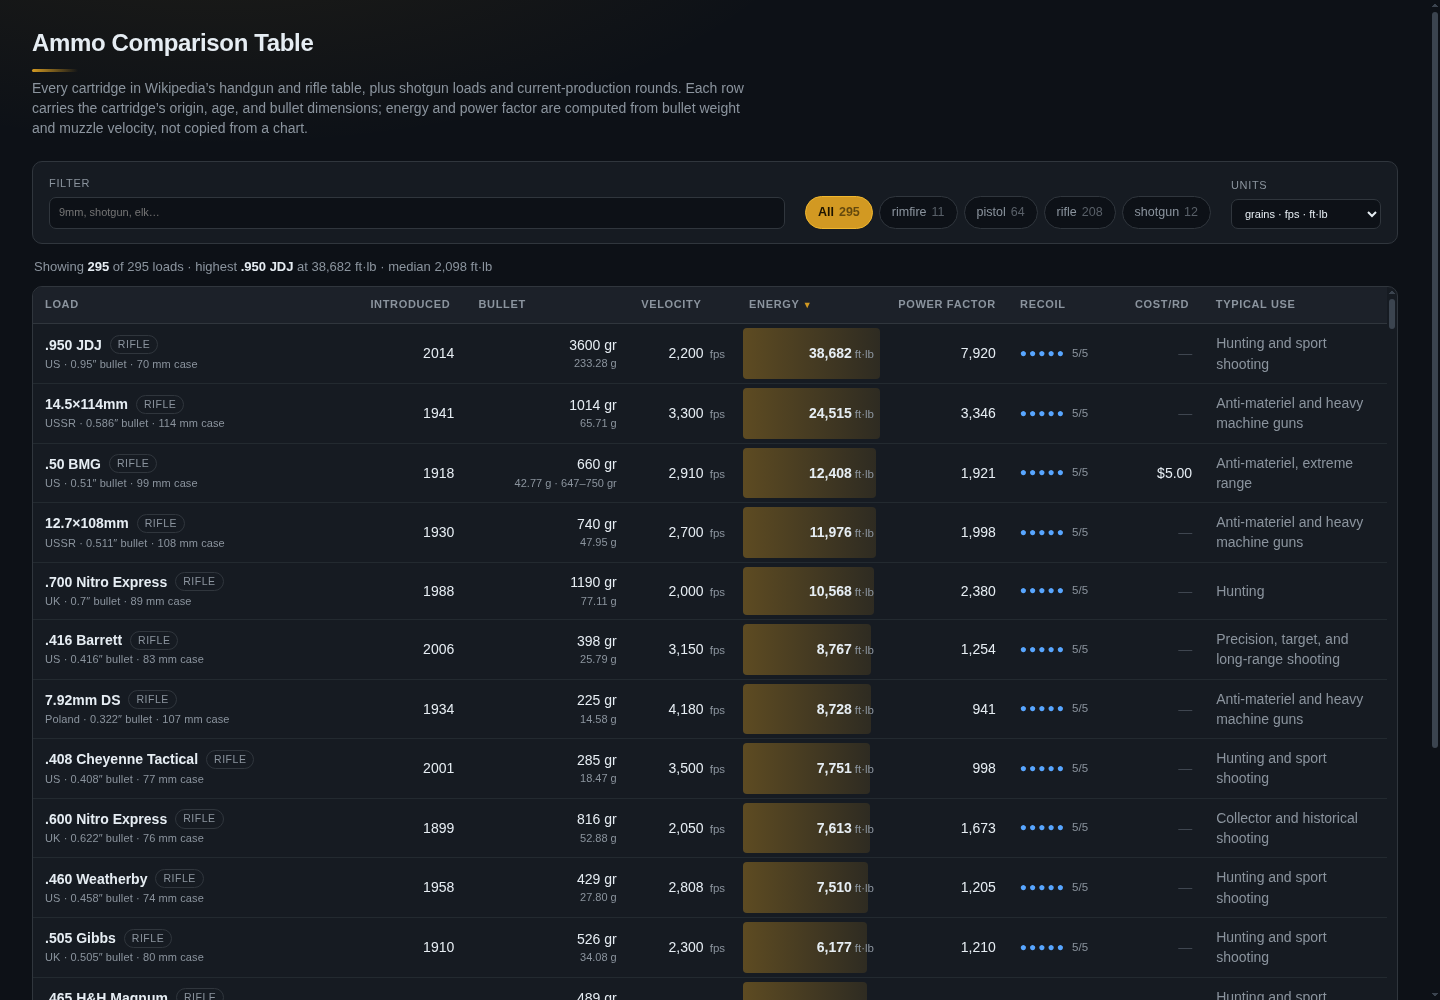
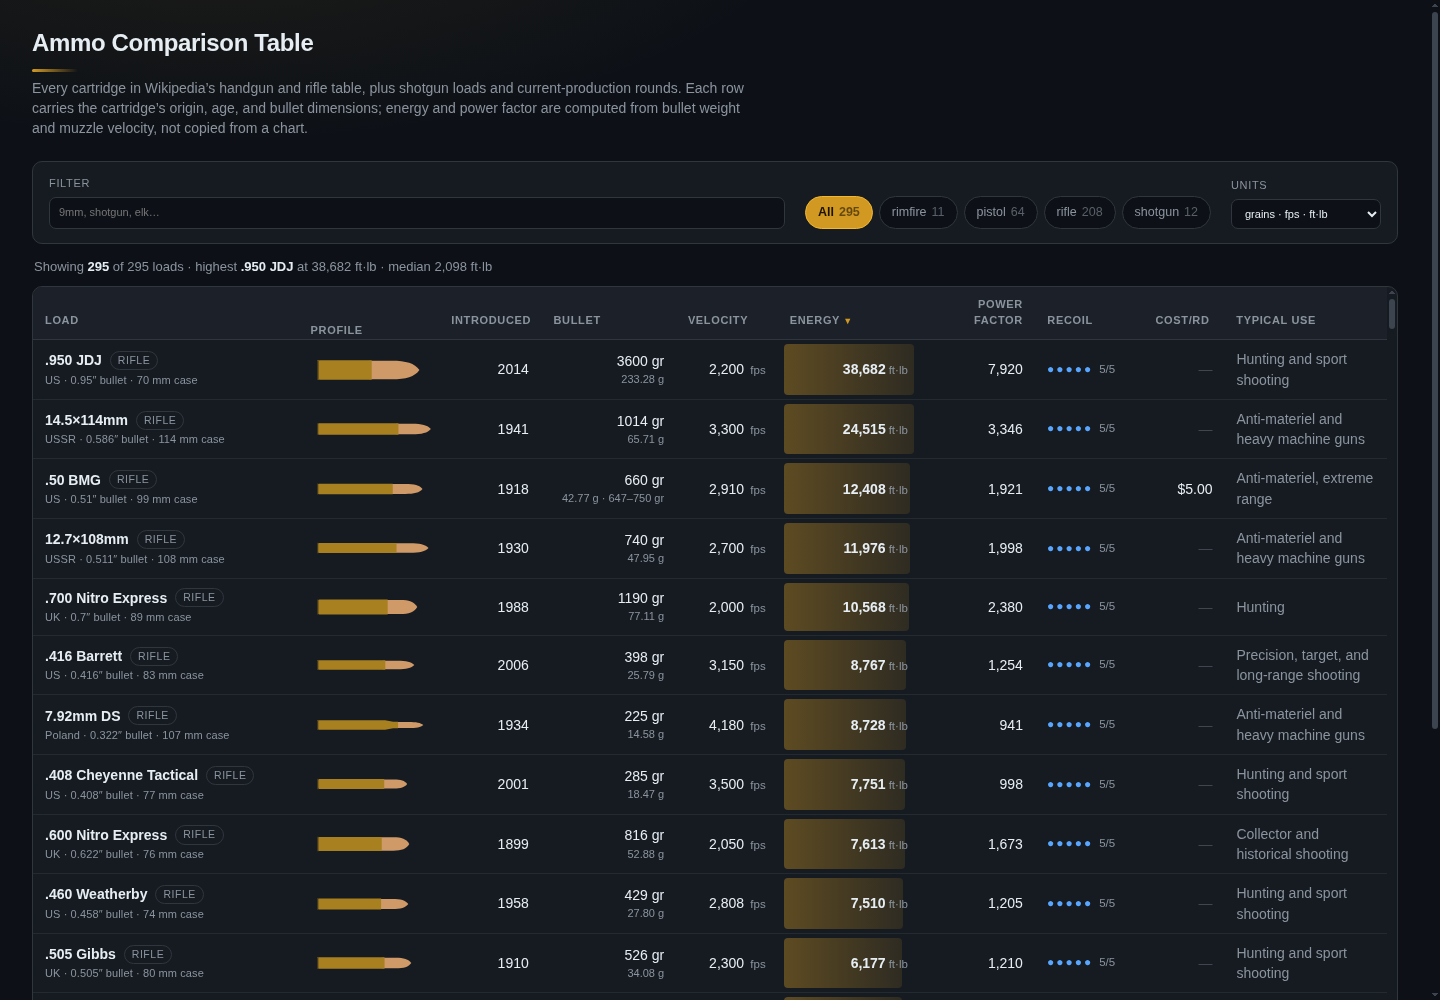
Add generated cartridge silhouettes to ammo comparison rows

diff --git a/active/web-apps/ammo-compare/lib/cartridge-svg.js b/active/web-apps/ammo-compare/lib/cartridge-svg.js
@@ -7,12 +7,17 @@
  * the numbers in the row, and means a corrected dimension fixes its silhouette.
  *
  * These are schematics, not engineering drawings. Case base diameter and bullet
- * ogive are approximated (the source table does not publish base diameter), but
- * every silhouette shares one scale, so relative lengths and widths are honest.
+ * ogive are approximated (the source table does not publish base diameter).
+ * Sizes use a compressed scale (length^0.55) so a 2 mm Kolibri stays visible next
+ * to a 14.5×114mm; aspect ratios are preserved, absolute size is not.
  */
 import { GRAINS_TO_GRAMS } from './ballistics.js';
 
 const LEAD_DENSITY_G_MM3 = 0.01134;
+/** Width of the shared coordinate space; every silhouette lives in this box. */
+const VIEW_WIDTH = 160;
+/** < 1 compresses the size range; 0 would make every drawing the same length. */
+const SCALE_EXPONENT = 0.55;
 
 /** Fallbacks for rows whose name and metadata do not pin a dimension down. */
 const CATEGORY_DEFAULTS = {
@@ -64,7 +69,11 @@ function isRimmed(load) {
   return /(rimmed|\bR\b|R$|Rimfire)/i.test(load.name) || load.category === 'rimfire';
 }
 
-function geometry(load) {
+/**
+ * Approximate profile geometry in millimetres. Exported so tests can assert the
+ * drawing tracks the data without parsing path strings.
+ */
+export function cartridgeGeometry(load) {
   const category = load.category in CATEGORY_DEFAULTS ? load.category : 'rifle';
   const bulletMm = bulletDiameterMm(load);
   const caseMm = caseLengthMm(load);
@@ -118,16 +127,22 @@ function geometry(load) {
   };
 }
 
-/** Shared bounds so every silhouette is drawn at the same scale. */
+/** Compressed but proportion-preserving scale for one cartridge. */
+function scaleFor(totalLength, maxLength) {
+  if (!(maxLength > 0) || !(totalLength > 0)) return 1;
+  const drawn = VIEW_WIDTH * (totalLength / maxLength) ** SCALE_EXPONENT;
+  return drawn / totalLength;
+}
+
+/** Shared bounds so every silhouette is drawn in the same coordinate box. */
 export function cartridgeExtents(loads) {
-  let length = 0;
+  const geometries = loads.map(cartridgeGeometry);
+  const maxLength = Math.max(...geometries.map((g) => g.totalLength));
   let radius = 0;
-  for (const load of loads) {
-    const g = geometry(load);
-    length = Math.max(length, g.totalLength);
-    radius = Math.max(radius, g.maxRadius);
+  for (const g of geometries) {
+    radius = Math.max(radius, g.maxRadius * scaleFor(g.totalLength, maxLength));
   }
-  return { length, radius };
+  return { length: VIEW_WIDTH, maxLength, radius };
 }
 
 const num = (n) => (Number.isFinite(n) ? Number(n.toFixed(2)) : 0);
@@ -135,31 +150,27 @@ const num = (n) => (Number.isFinite(n) ? Number(n.toFixed(2)) : 0);
 function casePath(g) {
   const {
     rimThickness, groove, bodyRadius, grooveRadius, neckRadius,
-    shoulderX, shoulderLength, neckLength, caseMm,
+    shoulderX, shoulderLength, caseMm,
   } = g;
-  const x0 = 0;
   const x1 = rimThickness;
   const x2 = rimThickness + groove;
   const x3 = shoulderX;
   const x4 = shoulderX + shoulderLength;
-  const x5 = caseMm;
   return [
-    `M${num(x0)},${num(-g.rimMm / 2)}`,
-    `L${num(x1)},${num(-g.rimMm / 2)}`,
+    `M${num(x1)},${num(-g.rimMm / 2)}`,
     `L${num(x1)},${num(-grooveRadius)}`,
     `L${num(x2)},${num(-grooveRadius)}`,
     `L${num(x2)},${num(-bodyRadius)}`,
     `L${num(x3)},${num(-bodyRadius)}`,
     `L${num(x4)},${num(-neckRadius)}`,
-    `L${num(x5)},${num(-neckRadius)}`,
-    `L${num(x5)},${num(neckRadius)}`,
+    `L${num(caseMm)},${num(-neckRadius)}`,
+    `L${num(caseMm)},${num(neckRadius)}`,
     `L${num(x4)},${num(neckRadius)}`,
     `L${num(x3)},${num(bodyRadius)}`,
     `L${num(x2)},${num(bodyRadius)}`,
     `L${num(x2)},${num(grooveRadius)}`,
     `L${num(x1)},${num(grooveRadius)}`,
     `L${num(x1)},${num(g.rimMm / 2)}`,
-    `L${num(x0)},${num(g.rimMm / 2)}`,
     'Z',
   ].join(' ');
 }
@@ -168,14 +179,31 @@ function bulletPath(g) {
   const r = g.bulletMm / 2;
   const seat = Math.min(3, g.caseMm * 0.12);
   const x0 = g.caseMm - seat;
-  const tip = g.caseMm + g.exposed;
-  const shoulder = tip - g.exposed * 0.45;
-  const belly = g.caseMm + g.exposed * 0.35;
+  const mouth = g.caseMm;
+  const tip = mouth + g.exposed;
+  const e = g.exposed;
+  const roundNose = g.category === 'pistol' || g.category === 'rimfire';
+
+  if (roundNose) {
+    const cap = Math.min(r, e);
+    const shoulder = tip - cap;
+    return [
+      `M${num(x0)},${num(-r)}`,
+      `L${num(shoulder)},${num(-r)}`,
+      `A${num(r)},${num(r)} 0 0 1 ${num(tip)},0`,
+      `A${num(r)},${num(r)} 0 0 1 ${num(shoulder)},${num(r)}`,
+      `L${num(x0)},${num(r)}`,
+      'Z',
+    ].join(' ');
+  }
+
+  // Spitzer ogive: straight bearing surface, then a long curve to the tip.
+  const ogive = Math.max(mouth, tip - e * 0.58);
   return [
     `M${num(x0)},${num(-r)}`,
-    `L${num(g.caseMm)},${num(-r)}`,
-    `C${num(belly)},${num(-r)} ${num(shoulder)},${num(-r * 0.72)} ${num(tip)},0`,
-    `C${num(shoulder)},${num(r * 0.72)} ${num(belly)},${num(r)} ${num(g.caseMm)},${num(r)}`,
+    `L${num(ogive)},${num(-r)}`,
+    `C${num(ogive + e * 0.3)},${num(-r)} ${num(tip - e * 0.1)},${num(-r * 0.74)} ${num(tip)},0`,
+    `C${num(tip - e * 0.1)},${num(r * 0.74)} ${num(ogive + e * 0.3)},${num(r)} ${num(ogive)},${num(r)}`,
     `L${num(x0)},${num(r)}`,
     'Z',
   ].join(' ');
@@ -184,29 +212,40 @@ function bulletPath(g) {
 function hullMarkup(g) {
   const r = g.bulletMm / 2;
   const head = Math.min(8, g.caseMm * 0.18);
+  const crimp = Math.min(3, g.caseMm * 0.09);
+  const hull = [
+    `M0,${num(-r)}`,
+    `L${num(g.caseMm - crimp)},${num(-r)}`,
+    `Q${num(g.caseMm)},${num(-r * 0.9)} ${num(g.caseMm)},0`,
+    `Q${num(g.caseMm)},${num(r * 0.9)} ${num(g.caseMm - crimp)},${num(r)}`,
+    'L0,' + num(r),
+    'Z',
+  ].join(' ');
   return `
-    <rect class="cart-hull" x="0" y="${num(-r)}" width="${num(g.caseMm)}" height="${num(r * 2)}" rx="${num(Math.min(1.4, r * 0.5))}"/>
-    <rect class="cart-head" x="0" y="${num(-r)}" width="${num(head)}" height="${num(r * 2)}" rx="${num(Math.min(0.8, r * 0.3))}"/>`;
+    <path class="cart-hull" d="${hull}"/>
+    <rect class="cart-head" x="0" y="${num(-r - 0.4)}" width="${num(head)}" height="${num(r * 2 + 0.8)}" rx="0.3"/>`;
 }
 
 /**
  * One inline SVG. `extents` comes from `cartridgeExtents` over the whole
- * dataset, so the drawings are comparable across rows.
+ * dataset, so every drawing shares one coordinate box.
  */
 export function cartridgeSvg(load, extents) {
-  const g = geometry(load);
+  const g = cartridgeGeometry(load);
   const pad = 0.8;
-  const width = extents.length + pad * 2;
+  const width = extents.length + pad + 2.6;
   const height = extents.radius * 2 + pad * 2;
   const centerY = pad + extents.radius;
+  const scale = scaleFor(g.totalLength, extents.maxLength ?? extents.length);
 
   const body =
     g.category === 'shotgun'
       ? hullMarkup(g)
       : `
     <path class="cart-bullet" d="${bulletPath(g)}"/>
+    <rect class="cart-rim" x="0" y="${num(-g.rimMm / 2)}" width="${num(g.rimThickness)}" height="${num(g.rimMm)}" rx="0.25"/>
     <path class="cart-case" d="${casePath(g)}"/>`;
 
-  return `<svg class="cart" viewBox="0 0 ${num(width)} ${num(height)}" preserveAspectRatio="xMinYMid meet" aria-hidden="true" focusable="false"><g transform="translate(${num(pad)} ${num(centerY)})">${body}
+  return `<svg class="cart" viewBox="0 0 ${num(width)} ${num(height)}" preserveAspectRatio="xMinYMid meet" aria-hidden="true" focusable="false"><g transform="translate(${num(pad)} ${num(centerY)}) scale(${num(scale)})">${body}
     </g></svg>`;
 }

diff --git a/active/web-apps/ammo-compare/styles.css b/active/web-apps/ammo-compare/styles.css
@@ -163,15 +163,16 @@ thead th button {
 }
 thead th:hover button { color: var(--ink); }
 thead th.num button { text-align: right; }
-thead .col-load { width: 24%; }
-thead .col-introduced { width: 8%; }
-thead .col-bullet { width: 12%; }
-thead .col-velocity { width: 8%; }
-thead .col-energy { width: 11%; }
-thead .col-pf { width: 9%; }
-thead .col-recoil { width: 8.5%; }
+thead .col-load { width: 20.5%; }
+thead .col-svg { width: 9.5%; }
+thead .col-introduced { width: 7.5%; }
+thead .col-bullet { width: 10%; }
+thead .col-velocity { width: 7.5%; }
+thead .col-energy { width: 10.5%; }
+thead .col-pf { width: 8.5%; }
+thead .col-recoil { width: 8%; }
 thead .col-cost { width: 6%; }
-thead .col-use { width: 13.5%; }
+thead .col-use { width: 12%; }
 thead th[aria-sort="ascending"] button::after { content: " ▲"; color: var(--accent); font-size: 9px; }
 thead th[aria-sort="descending"] button::after { content: " ▼"; color: var(--accent); font-size: 9px; }
 
@@ -212,6 +213,15 @@ td .sub { display: block; color: var(--dim); font-size: 11px; font-weight: 400; 
   text-transform: uppercase;
   vertical-align: 1px;
 }
+
+/* cartridge silhouettes: one shared scale, derived from the row's dimensions */
+td.col-svg { padding: 4px 6px; }
+.cart { display: block; width: 100%; height: 24px; shape-rendering: geometricPrecision; }
+.cart-case { fill: #a8801f; }
+.cart-rim { fill: #7d5d19; }
+.cart-bullet { fill: #cf9a68; }
+.cart-hull { fill: #9d3f30; }
+.cart-head { fill: #a8801f; }
 
 /* energy cell: bar behind the number */
 .col-energy { min-width: 152px; }
@@ -290,7 +300,7 @@ tr.detail .badge { border: 1px solid var(--line); border-radius: 6px; padding: 2
 
   /* Phones get the two columns that carry the comparison — the load and its
      derived energy — so nothing scrolls sideways. */
-  .col-bullet { display: none; }
+  .col-bullet, .col-svg { display: none; }
   thead .col-load { width: 56%; }
   thead .col-energy { width: 44%; }
 

diff --git a/active/web-apps/ammo-compare/app.js b/active/web-apps/ammo-compare/app.js
@@ -1,8 +1,16 @@
 import { AMMO } from './data/ammo.js';
 import { derive, fmtInt, fmtCost, fmtEnergy } from './lib/ballistics.js';
+import { cartridgeSvg, cartridgeExtents } from './lib/cartridge-svg.js';
+
+/** One shared scale, so silhouettes compare across rows. */
+const EXTENTS = cartridgeExtents(AMMO);
 
 /** Enrich the static load data with derived numbers once, at module load. */
-const ROWS = AMMO.map((load) => ({ ...load, ...derive(load) }));
+const ROWS = AMMO.map((load) => ({
+  ...load,
+  ...derive(load),
+  silhouette: cartridgeSvg(load, EXTENTS),
+}));
 const MAX_ENERGY = Math.max(...ROWS.map((r) => r.energyFtLb));
 const MAX_LOG_ENERGY = Math.log1p(MAX_ENERGY);
 const CATEGORIES = ['all', ...new Set(ROWS.map((r) => r.category))];
@@ -155,6 +163,7 @@ function rowHtml(r) {
         <span class="load-main"><span class="load-name">${r.name}</span><span class="cat">${r.category}</span></span>
         ${loadSubline(r)}
       </th>
+      <td class="col-svg">${r.silhouette}</td>
       <td class="num col-introduced">${r.introduced ?? '<span class="none">—</span>'}</td>
       <td class="num col-bullet">${bullet(r)}</td>
       <td class="num col-velocity">${velocity(r)}</td>
@@ -208,7 +217,7 @@ function detailHtml(r) {
   ].filter(Boolean);
   return `
     <tr class="detail" id="detail-${r.id}">
-      <td colspan="9">
+      <td colspan="10">
         <dl>
           <dt>Platforms</dt>
           <dd class="badges">${r.platforms.map((p) => `<span class="badge">${p}</span>`).join('')}</dd>
@@ -267,7 +276,7 @@ function render() {
   const rows = visibleRows();
   els.rows.innerHTML = rows.length
     ? rows.map(rowHtml).join('')
-    : `<tr><td colspan="9" class="empty">No loads match that filter.</td></tr>`;
+    : `<tr><td colspan="10" class="empty">No loads match that filter.</td></tr>`;
   renderSummary(rows);
   renderChips();
   renderSortIndicators();

diff --git a/active/web-apps/ammo-compare/index.html b/active/web-apps/ammo-compare/index.html
@@ -41,11 +41,13 @@
       <table id="ammo">
         <caption class="visually-hidden">
           Comparison of typical ammunition loads by introduction year, bullet
-          weight, velocity, energy, power factor, recoil, and cost.
+          weight, velocity, energy, power factor, recoil, and cost, with a
+          silhouette drawn to a shared scale.
         </caption>
         <thead>
           <tr>
             <th scope="col" data-sort="name" class="sortable col-load"><button type="button">Load</button></th>
+            <th scope="col" class="col-svg">Profile</th>
             <th scope="col" data-sort="introduced" class="sortable num col-introduced"><button type="button">Introduced</button></th>
             <th scope="col" data-sort="bulletGr" class="sortable num col-bullet"><button type="button">Bullet</button></th>
             <th scope="col" data-sort="velocityFps" class="sortable num col-velocity"><button type="button">Velocity</button></th>
@@ -82,6 +84,9 @@
         name gives its nation, bullet diameter, and case length. Bullet cells show
         the selected unit plus, where known, the range of weights normally sold for
         that cartridge. Click a row for platforms, reference metadata, and notes.
+        The silhouette beside each load is drawn from its case length, bullet
+        diameter, and bullet weight; sizes use a compressed scale so small rounds
+        stay legible, while the true dimensions are printed in the row.
         Cartridge coverage and reference values adapted from
         <a href="https://en.wikipedia.org/wiki/Table_of_handgun_and_rifle_cartridges">Wikipedia’s
         Table of handgun and rifle cartridges</a> (CC BY-SA).

diff --git a/active/web-apps/ammo-compare/docs/index.md b/active/web-apps/ammo-compare/docs/index.md
@@ -39,6 +39,12 @@ Keeping the math in one module is the point: the UI, the tests, and anything
 added later all read the same implementation, so an energy column can never
 disagree with a velocity column.
 
+`lib/cartridge-svg.js` turns the same stored dimensions into the row profiles. It
+estimates projectile length from bullet mass and lead density, infers a neck from
+case proportions and velocity, and emits one inline SVG per load. Nothing is
+downloaded and there are no per-cartridge image assets, so fixing a case length
+or bullet diameter immediately fixes that row's drawing.
+
 ## Coverage
 
 The curated section covers the loads someone is most likely to compare. The
@@ -81,6 +87,15 @@ report it. Unpriced rows sort to the bottom in both directions.
   and case length under its name, plus the usual bullet-weight range in the
   bullet cell. Those fields came from the detail panel because they answer
   questions people ask while scanning, not after clicking.
+- The profile column draws each cartridge from its stored dimensions and bullet
+  mass: case length sets the body, bullet diameter sets the neck and width, and
+  mass divided by lead density estimates projectile length. Base diameter and
+  ogive are approximations because the source table does not publish them, so
+  the drawings are schematic rather than engineering drawings. Silhouettes share
+  a compressed scale (`length^0.55`) so a 2 mm Kolibri stays legible beside a
+  14.5×114mm while true proportions and ordering are preserved; the printed
+  dimensions remain authoritative. `lib/cartridge-svg.js` is the single source
+  for the geometry, and every drawing is self-contained inline SVG.
 - Sticky header row; the load column stays pinned on narrow screens so you never
   lose track of which row you are reading.
 - Sortable headers use `aria-sort`; the default is energy, descending, because
@@ -131,14 +146,21 @@ still work.
 - energy ordering that matches shooter intuition (`.22 LR < 9mm < .223`,
   `.308 < .300 Win Mag`, and the 1 oz 12 ga slug outgunning a .30-06).
 
+`tests/silhouette.test.mjs` checks the generated profiles without opening a
+browser: every load emits a finite inline SVG, all drawings share one viewBox,
+nothing references an external resource, drawn length and width follow the stored
+dimensions, bottleneck and rim inference land on the right cartridges, shotgun
+hulls contain no protruding bullet, and missing metadata falls back instead of
+producing `NaN`.
+
 ```
 node --test tests/*.test.mjs
 ```
 
 `tests/interaction.check.mjs` drives the real page over the Chrome DevTools
 Protocol — no Playwright install and no browser download, which matters on this
-NixOS host — and asserts filtering, sorting, row expansion, the unit toggle, and
-the empty state:
+NixOS host — and asserts filtering, sorting, row expansion, the unit toggle,
+silhouette rendering, and the empty state:
 
 Both suites are offline. The unit tests import the checked-in dataset directly;
 the browser check talks only to `localhost` (your `server.mjs` and Chrome's

diff --git a/active/web-apps/ammo-compare/README.md b/active/web-apps/ammo-compare/README.md
@@ -10,6 +10,8 @@ and velocity rather than transcribed from a chart.
   current-production rounds such as 6.5 PRC, 7mm PRC, `.300 PRC`, and `.277 Fury`.
 - Rows carry the cartridge's origin, introduction year, bullet diameter, case
   length, and the usual bullet-weight range — not just the numbers for one load.
+- Each row also draws a cartridge profile generated from its case length, bullet
+  diameter, and bullet weight, so the shapes are data, not bespoke artwork.
 - Full-width table on a wide screen, with columns shedding in priority order as
   the window narrows.
 - Sort any column, filter by category, search across names, uses, and platforms.
